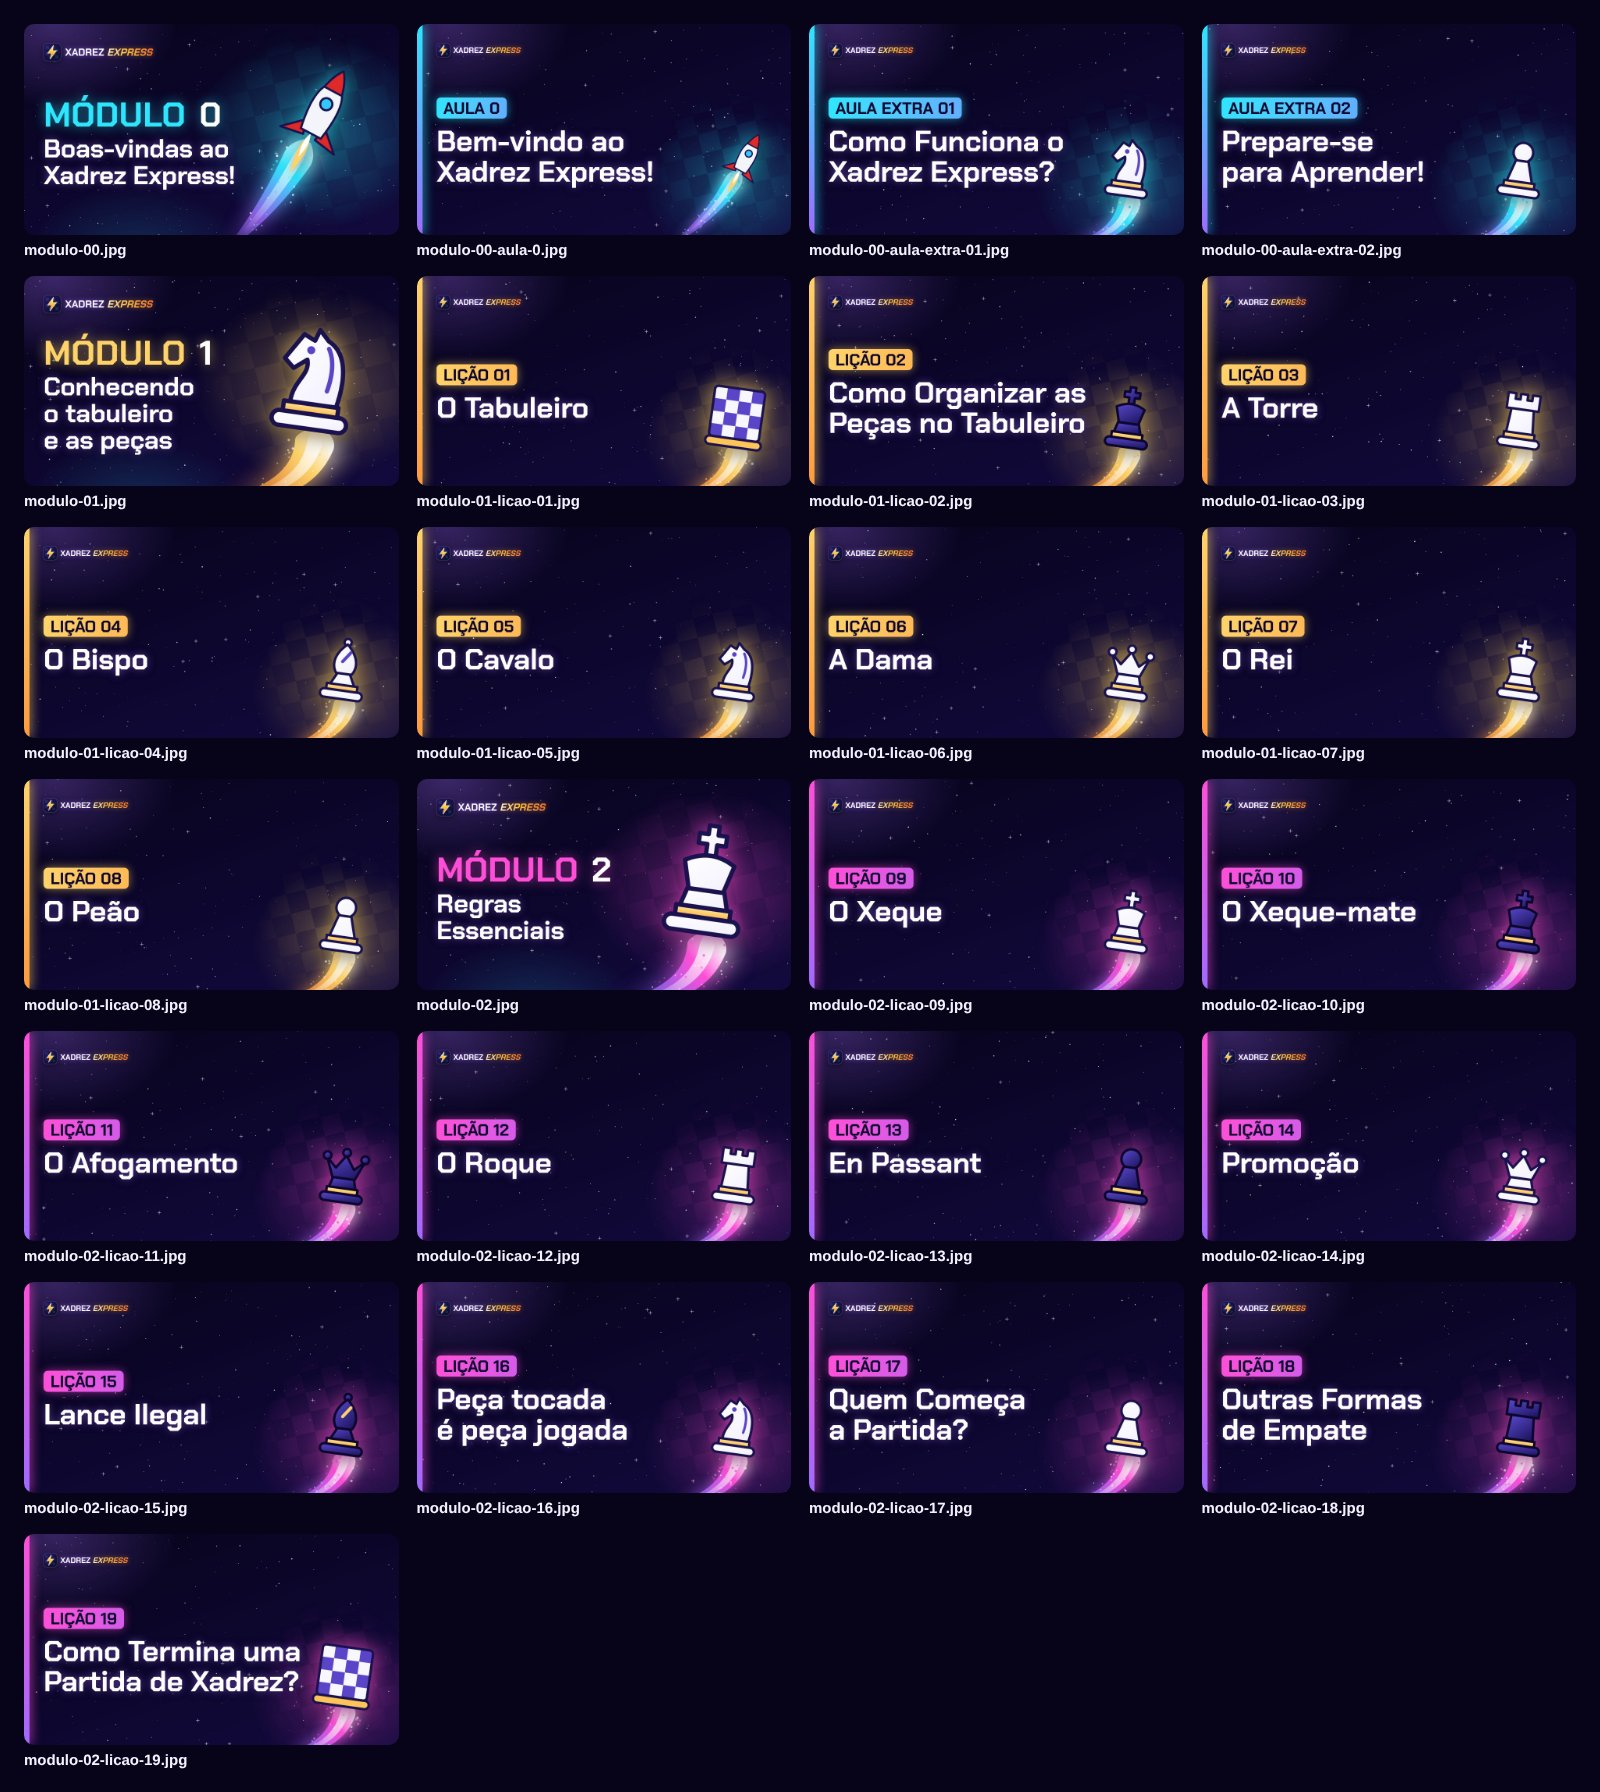
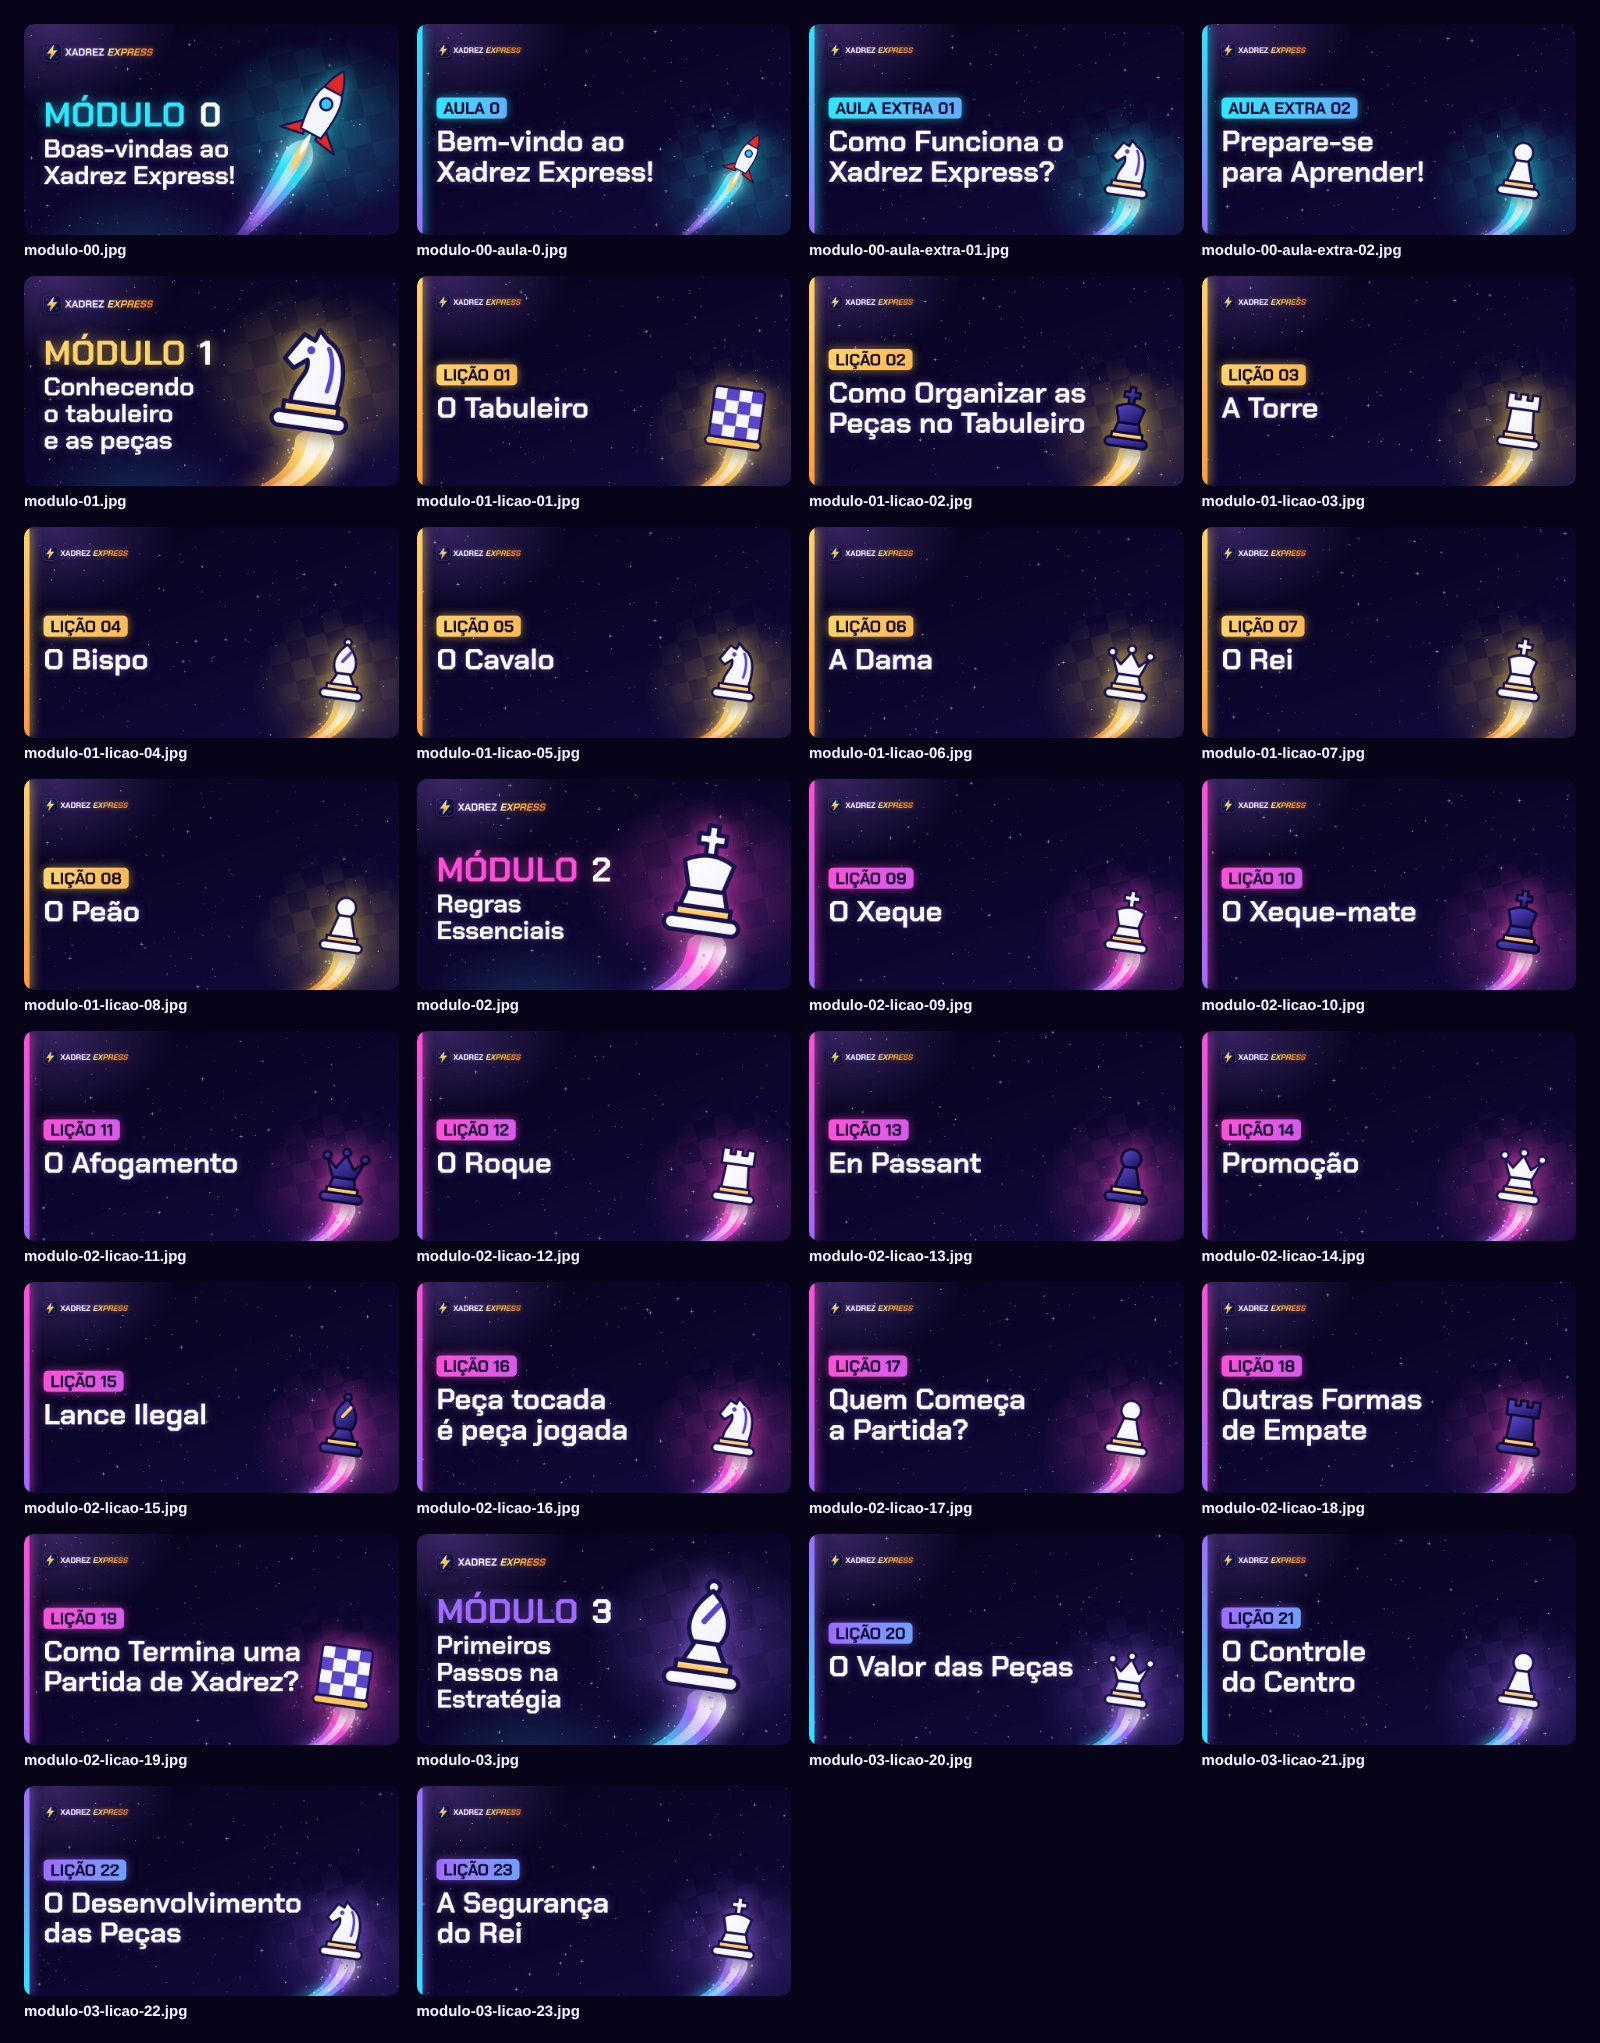
Capas do Módulo 3 e das lições 20 a 23
Claude-Session: https://claude.ai/code/session_01TiCEz9v6sPBGKMhfiJviFX

diff --git a/capas/lista.js b/capas/lista.js
@@ -54,4 +54,15 @@ module.exports = [
       { rotulo: 'Lição 19', titulo: 'Como Termina uma Partida de Xadrez?', peca: 'tabuleiro' },
     ],
   },
+  {
+    numero: '3',
+    titulo: 'Primeiros Passos na Estratégia',
+    peca: 'wb',
+    aulas: [
+      { rotulo: 'Lição 20', titulo: 'O Valor das Peças', peca: 'wq' },
+      { rotulo: 'Lição 21', titulo: 'O Controle do Centro', peca: 'wp' },
+      { rotulo: 'Lição 22', titulo: 'O Desenvolvimento das Peças', peca: 'wn' },
+      { rotulo: 'Lição 23', titulo: 'A Segurança do Rei', peca: 'wk' },
+    ],
+  },
 ];
